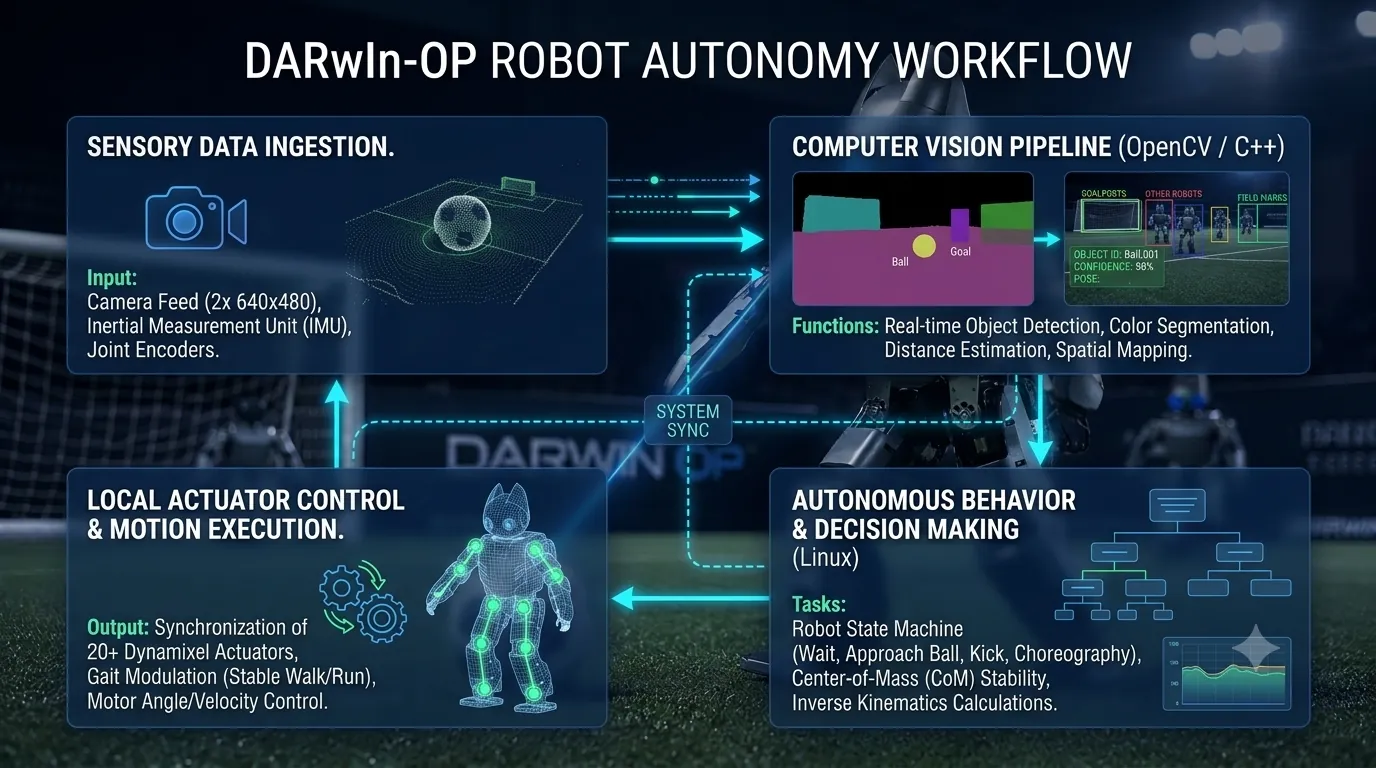
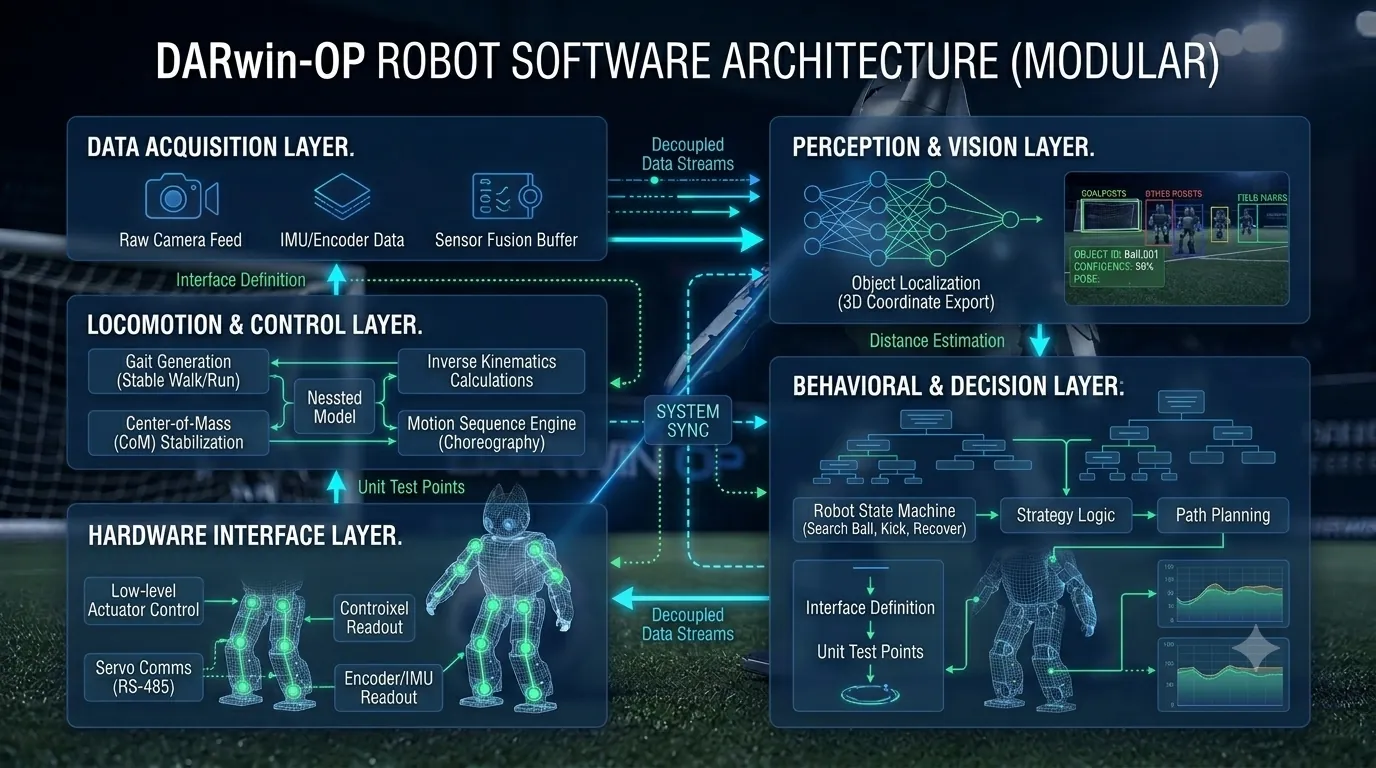
update style
update css and images optimization

diff --git a/css/style.css b/css/style.css
@@ -124,20 +124,119 @@ nav a:hover {
     gap: 20px;
 }
 
-.hero-image img {
+       /* --- CONTENEDOR DE LA IMAGEN HERO (La clave del efecto) --- */
+        .hero-image-container {
+            position: relative;
+            width: 370px;
+            height: 370px;
+            display: flex;
+            align-items: center;
+            justify-content: center;
+            user-select: none;
+        }
 
-    width: 350px;
-    height: 350px;
+        /* --- 1. ANILLO EXTERIOR GIRATORIO (Gradiente Cyberpunk) --- */
+        .hero-image-container::before {
+            content: '';
+            position: absolute;
+            width: 100%;
+            height: 100%;
+            border-radius: 50%;
+            /* Degradado de neón que fluye con tu estética */
+            background: linear-gradient(135deg, #0284c7 0%, #38bdf8 40%, transparent 100%);
+            animation: rotateOuter 10s linear infinite;
+            padding: 4px; /* Grosor del anillo neón */
+            
+            /* Técnica de máscara CSS para renderizar solo el borde del degradado */
+            -webkit-mask: linear-gradient(#fff 0 0) content-box, linear-gradient(#fff 0 0);
+            -webkit-mask-composite: xor;
+            mask-composite: exclude;
+            pointer-events: none;
+            transition: all 0.5s ease;
+        }
 
-    object-fit: cover;
+        /* --- 2. ANILLO INTERIOR DISCONTINUO (Efecto Escáner/HUD) --- */
+        .hero-image-container::after {
+            content: '';
+            position: absolute;
+            width: 93%;
+            height: 93%;
+            border-radius: 50%;
+            border: 2px dashed rgba(56, 189, 248, 0.35);
+            /* Gira en sentido contrario al anillo exterior */
+            animation: rotateInner 15s linear infinite;
+            pointer-events: none;
+            transition: all 0.5s ease;
+        }
 
-    border-radius: 50%;
+        /* --- 3. IMAGEN / TU FOTOGRAFÍA PROFESIONAL --- */
+        .hero-image img {
+            width: 325px;
+            height: 325px;
+            object-fit: cover;
+            border-radius: 50%;
+            /* Borde oscuro muy grueso que genera una "brecha" de aislamiento de hardware */
+            border: 6px solid #030712; 
+            background: #0f172a;
+            box-shadow: 
+                0 0 30px rgba(2, 132, 199, 0.25),
+                inset 0 0 20px rgba(56, 189, 248, 0.1);
+            transition: all 0.5s cubic-bezier(0.4, 0, 0.2, 1);
+            z-index: 2;
+        }
 
-    border: 4px solid #3b82f6;
+        /* --- 4. DETALLES DE ESCÁNER (Opcionales para darle más realismo robótico) --- */
+        .tech-corner {
+            position: absolute;
+            width: 12px;
+            height: 12px;
+            border: 2px solid rgba(56, 189, 248, 0.4);
+            border-radius: 2px;
+            z-index: 1;
+            transition: all 0.5s ease;
+            opacity: 0.7;
+        }
+        .top-left { top: 0; left: 0; border-right: none; border-bottom: none; }
+        .top-right { top: 0; right: 0; border-left: none; border-bottom: none; }
+        .bottom-left { bottom: 0; left: 0; border-right: none; border-top: none; }
+        .bottom-right { bottom: 0; right: 0; border-left: none; border-top: none; }
 
-    box-shadow:
-        0 0 25px rgba(59, 130, 246, .25);
-}
+
+        /* --- ESTADOS EN HOVER (Interacción Activa) --- */
+        .hero-image-container:hover img {
+            transform: scale(1.03); /* Ligero aumento */
+            box-shadow: 
+                0 0 45px rgba(56, 189, 248, 0.45),
+                inset 0 0 25px rgba(56, 189, 248, 0.2);
+            border-color: #0b0f19; /* Transición sutil del color de separación */
+        }
+
+        .hero-image-container:hover::before {
+            filter: drop-shadow(0 0 8px rgba(56, 189, 248, 0.8));
+            transform: scale(1.02);
+        }
+
+        .hero-image-container:hover::after {
+            border-color: rgba(56, 189, 248, 0.6);
+            transform: scale(0.98);
+        }
+
+        .hero-image-container:hover .tech-corner {
+            opacity: 1;
+            border-color: rgba(56, 189, 248, 0.8);
+            transform: scale(1.05);
+        }
+
+        /* --- ANIMACIONES DE ROTACIÓN --- */
+        @keyframes rotateOuter {
+            0% { transform: rotate(0deg); }
+            100% { transform: rotate(360deg); }
+        }
+
+        @keyframes rotateInner {
+            0% { transform: rotate(360deg); }
+            100% { transform: rotate(0deg); }
+        }
 
 /* ==========================
    BUTTONS

diff --git a/index.html b/index.html
@@ -58,10 +58,19 @@
             </div>
         </div>
 
-        <div class="hero-image">
-            <img src="assets/images/profile.webp"
-                alt="Adad Anzaldo">
-        </div>
+            <div class="hero-image-container">
+       
+                <div class="tech-corner top-left"></div>
+                <div class="tech-corner top-right"></div>
+                <div class="tech-corner bottom-left"></div>
+                <div class="tech-corner bottom-right"></div>
+                
+                <div class="hero-image">
+                    <!-- Imagen demo de portafolio profesional -->
+                    <img src="assets/images/profile.webp"
+                        alt="Adad Anzaldo">
+                </div>
+            </div>
 
     </section>
 